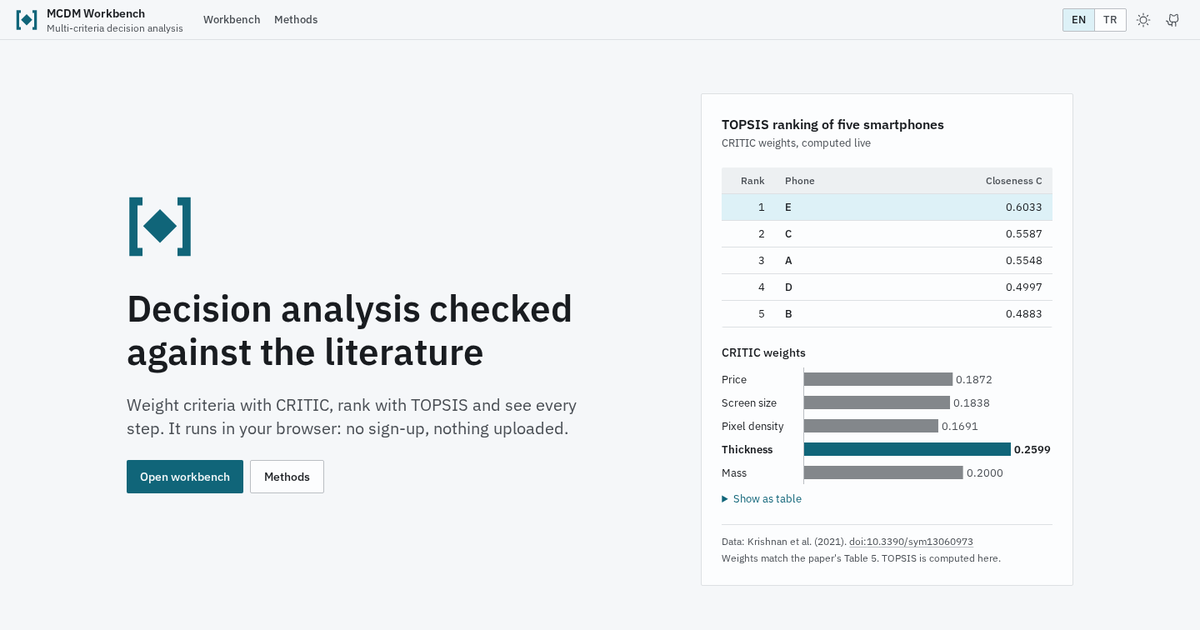
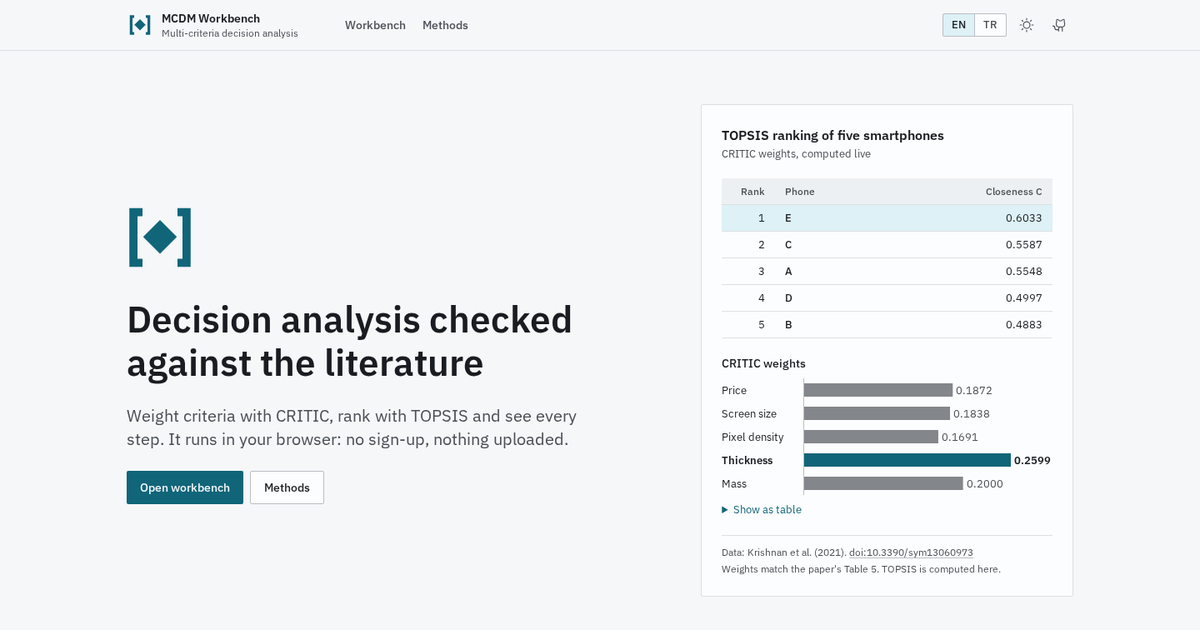
Top bar: 60 px, content aligned with the page container (full width in the workbench), balanced spacing

diff --git a/src/app/shell/TopBar.tsx b/src/app/shell/TopBar.tsx
@@ -28,7 +28,7 @@ function NavLink({ href, children }: { href: string; children: string }) {
       href={href}
       aria-current={active ? 'page' : undefined}
       className={cn(
-        'inline-flex h-8 items-center rounded-control px-2 text-13 font-medium whitespace-nowrap no-underline transition-colors',
+        'inline-flex h-8 items-center rounded-control px-2 text-14 font-medium whitespace-nowrap no-underline transition-colors',
         active ? 'text-text' : 'text-text-2 hover:text-text',
       )}
     >
@@ -83,38 +83,56 @@ function ThemeMenu() {
   )
 }
 
-/** 48 px top bar: wordmark (subtitle from 1024 px), main nav, language, theme, GitHub (from 640 px; the footer carries it below). */
+/**
+ * 60 px top bar: mark and name (subtitle under the name from 1024 px), main nav, language, theme, GitHub (from 640 px;
+ * the footer carries it below). On the landing and method pages the content sits in the page container so the mark lines
+ * up with the page's left edge; in the workbench it spans the full width and lines up with the stage rail.
+ */
 export function TopBar() {
   const { t } = useTranslation()
+  const [inWorkbench] = useRoute('/app/*?')
   return (
-    <header className="sticky top-0 z-30 flex h-12 shrink-0 items-center gap-2 border-b border-line bg-bg px-4">
-      <a
-        href="#main"
-        className="sr-only rounded-control bg-surface px-2 py-1 text-13 focus:not-sr-only focus:absolute focus:top-2 focus:left-2 focus:z-50"
+    <header className="sticky top-0 z-30 shrink-0 border-b border-line bg-bg">
+      <div
+        className={cn(
+          'flex h-15 items-center gap-2',
+          inWorkbench ? 'w-full px-4' : 'mx-auto w-full max-w-[1200px] px-4 md:px-8',
+        )}
       >
-        {t('nav.skipToContent')}
-      </a>
-      <Link href="/" className="mr-2 flex shrink-0 items-center gap-2 rounded-control no-underline">
-        {/* Phones show the mark alone so the nav and the controls fit in 360 px; the name stays in the accessible label. */}
-        <LogoMark size={24} className="shrink-0 text-accent lg:hidden" />
-        <LogoMark size={32} className="hidden shrink-0 text-accent lg:block" />
-        <span className="flex flex-col leading-tight">
-          <span className="sr-only text-14 font-semibold text-text sm:not-sr-only">{t('common.wordmark')}</span>
-          <span className="hidden text-12 text-text-2 lg:inline">{t('common.productName')}</span>
-        </span>
-      </Link>
-      <nav aria-label={t('nav.main')} className="flex items-center">
-        <NavLink href="/app">{t('nav.workbench')}</NavLink>
-        <NavLink href="/methods">{t('nav.methods')}</NavLink>
-      </nav>
-      <div className="ml-auto flex items-center gap-1">
-        <LanguageSwitch />
-        <ThemeMenu />
-        <span className="hidden sm:inline-flex">
-          <a href={REPO_URL} target="_blank" rel="noreferrer" aria-label={t('nav.github')} className={iconButtonClasses()}>
-            <GithubLogo aria-hidden />
-          </a>
-        </span>
+        <a
+          href="#main"
+          className="sr-only rounded-control bg-surface px-2 py-1 text-13 focus:not-sr-only focus:absolute focus:top-2 focus:left-2 focus:z-50"
+        >
+          {t('nav.skipToContent')}
+        </a>
+        <Link href="/" className="flex shrink-0 items-center gap-2.5 rounded-control no-underline">
+          {/* Phones show the mark alone so the nav and the controls fit in 360 px; the name stays in the accessible label. */}
+          <LogoMark size={24} className="shrink-0 text-accent lg:hidden" />
+          <LogoMark size={32} className="hidden shrink-0 text-accent lg:block" />
+          <span className="flex flex-col leading-tight">
+            <span className="sr-only text-14 font-semibold text-text sm:not-sr-only">{t('common.wordmark')}</span>
+            <span className="hidden text-12 text-text-2 lg:inline">{t('common.productName')}</span>
+          </span>
+        </Link>
+        <nav aria-label={t('nav.main')} className="ml-2 flex items-center gap-1 sm:ml-6 lg:ml-10">
+          <NavLink href="/app">{t('nav.workbench')}</NavLink>
+          <NavLink href="/methods">{t('nav.methods')}</NavLink>
+        </nav>
+        <div className="ml-auto flex items-center gap-2">
+          <LanguageSwitch />
+          <ThemeMenu />
+          <span className="hidden sm:inline-flex">
+            <a
+              href={REPO_URL}
+              target="_blank"
+              rel="noreferrer"
+              aria-label={t('nav.github')}
+              className={iconButtonClasses()}
+            >
+              <GithubLogo aria-hidden />
+            </a>
+          </span>
+        </div>
       </div>
     </header>
   )

diff --git a/src/app/workbench/WorkedCalculation.tsx b/src/app/workbench/WorkedCalculation.tsx
@@ -120,7 +120,7 @@ export default function WorkedCalculation({ groups, problem, headingLevel = 'h3'
           <div key={gi} className="flex flex-col gap-6">
             {g.title && <GroupHeading className="text-14 font-semibold text-text-2">{g.title}</GroupHeading>}
             {flow && (
-              <div className="sticky top-12 z-20 -mx-1 bg-bg px-1 py-2">
+              <div className="sticky top-15 z-20 -mx-1 bg-bg px-1 py-2">
                 <StepFlow
                   steps={flow.map((node) => ({ ...node, label: tr(t, `workbench.flow.${node.key}`) }))}
                   active={activeKey}
@@ -225,7 +225,7 @@ function StepBlock({ step, number, index, domId, current, onCurrent, labels, hea
       data-step={step.key}
       data-index={index}
       data-current={current || undefined}
-      className="relative flex min-w-0 scroll-mt-28 flex-col gap-3 border-l border-line pl-5 outline-none"
+      className="relative flex min-w-0 scroll-mt-32 flex-col gap-3 border-l border-line pl-5 outline-none"
       onFocusCapture={onCurrent}
       onPointerDown={onCurrent}
     >

diff --git a/src/app/methods/MethodPage.tsx b/src/app/methods/MethodPage.tsx
@@ -21,7 +21,7 @@ const disclosure = 'cursor-pointer text-13 text-text-2 hover:text-text'
 
 function Section({ id, title, children }: { id: SectionId; title: string; children: ReactNode }) {
   return (
-    <section id={id} aria-labelledby={`${id}-title`} className="flex scroll-mt-16 flex-col gap-4">
+    <section id={id} aria-labelledby={`${id}-title`} className="flex scroll-mt-20 flex-col gap-4">
       <h2 id={`${id}-title`} className="text-20 font-semibold text-text">
         {title}
       </h2>

diff --git a/src/app/methods/Catalog.tsx b/src/app/methods/Catalog.tsx
@@ -120,7 +120,7 @@ export default function Catalog() {
           </div>
 
           <aside className="min-w-0">
-            <div className="rounded-control border border-line bg-surface p-4 md:p-5 xl:sticky xl:top-16 xl:max-h-[calc(100dvh-80px)] xl:overflow-y-auto">
+            <div className="rounded-control border border-line bg-surface p-4 md:p-5 xl:sticky xl:top-20 xl:max-h-[calc(100dvh-96px)] xl:overflow-y-auto">
               <Guide />
             </div>
           </aside>

diff --git a/src/app/App.tsx b/src/app/App.tsx
@@ -61,7 +61,7 @@ const DevIllustrations = import.meta.env.DEV ? lazy(() => import('../features/il
  * the page renders its own, and tools that wait for `#main` wait for the real content.
  */
 function PageFallback() {
-  return <div aria-busy="true" className="min-h-[calc(100dvh-48px)]" />
+  return <div aria-busy="true" className="min-h-[calc(100dvh-60px)]" />
 }
 
 /** `ssrPath` only for the build-time prerender (src/app/prerender.tsx). */

diff --git a/src/app/methods/Guide.tsx b/src/app/methods/Guide.tsx
@@ -67,7 +67,7 @@ export function Guide() {
   }
 
   return (
-    <section aria-labelledby="guide-title" id="guide" className="flex scroll-mt-16 flex-col gap-5">
+    <section aria-labelledby="guide-title" id="guide" className="flex scroll-mt-20 flex-col gap-5">
       <div className="flex flex-col gap-2">
         <h2 id="guide-title" className="text-20 font-semibold text-text">
           {t('methods.guide.title')}
